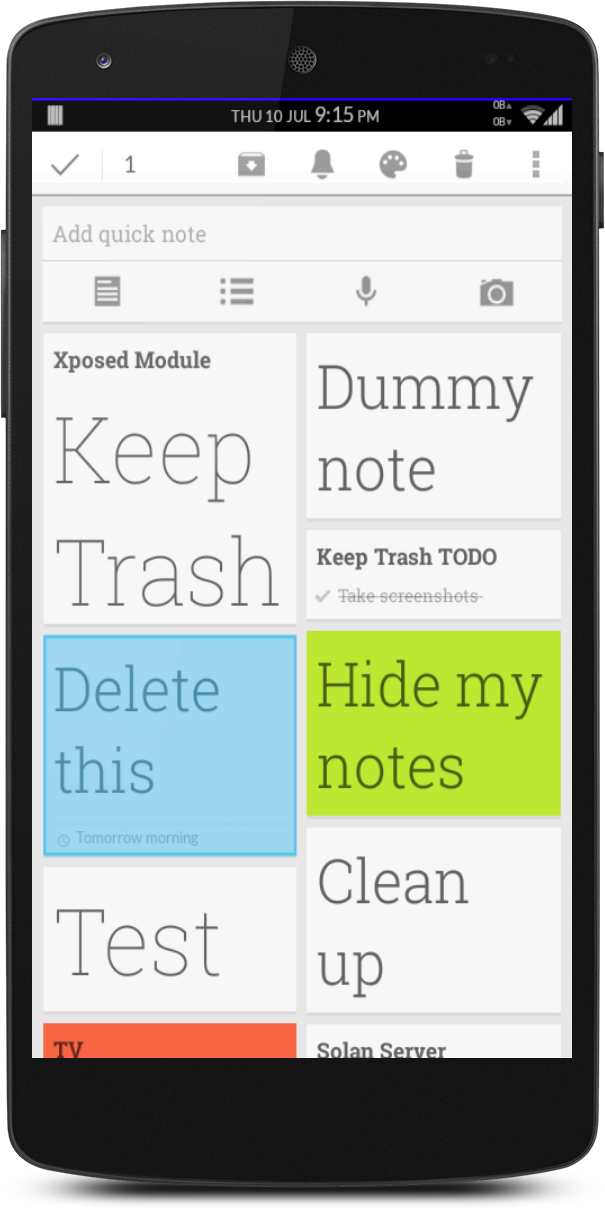
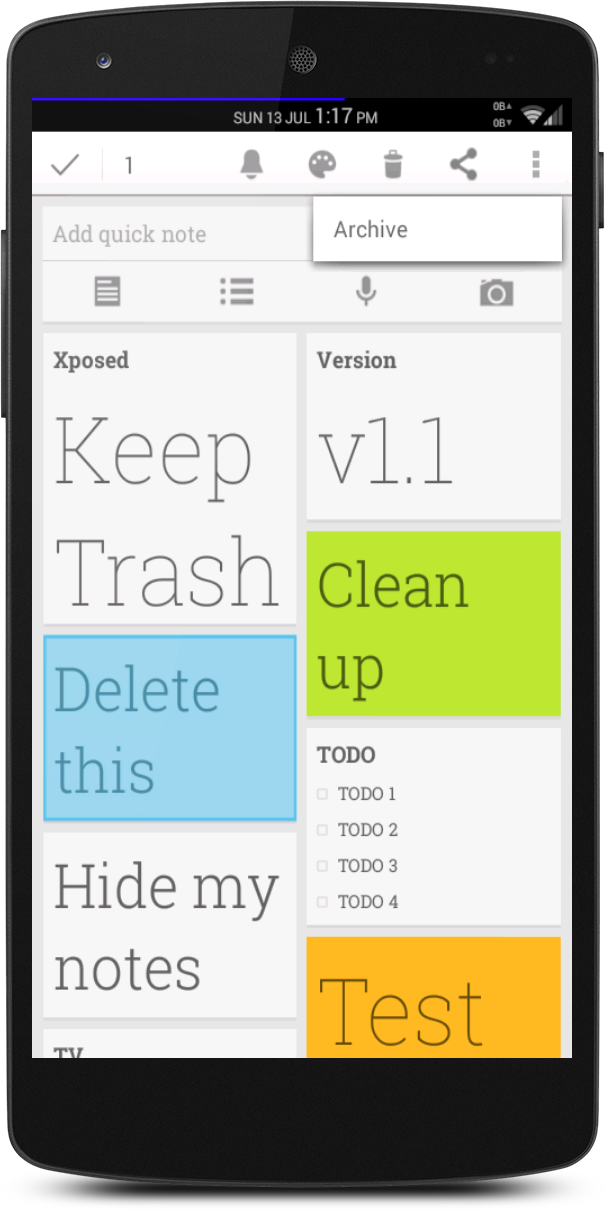
Blog update at 2014-07-13 09:38:03

diff --git a/keep-trash/index.html b/keep-trash/index.html
@@ -13,17 +13,17 @@
     <meta name="viewport" content="width=device-width, initial-scale=1">
 
     
-    <link rel="stylesheet" href="../assets/css/style.css?v=0d560886d1">
+    <link rel="stylesheet" href="../assets/css/style.css?v=85fe16f7bd">
 
     
-    <link rel="apple-touch-icon-precomposed" sizes="144x144" href="../assets/images/apple-touch-icon-144x144-precomposed.png?v=0d560886d1" />
-    <link rel="apple-touch-icon-precomposed" sizes="114x114" href="../assets/images/apple-touch-icon-114x114-precomposed.png?v=0d560886d1" />
-    <link rel="apple-touch-icon-precomposed" sizes="72x72" href="../assets/images/apple-touch-icon-72x72-precomposed.png?v=0d560886d1" />
-    <link rel="apple-touch-icon-precomposed" sizes="57x57" href="../assets/images/apple-touch-icon-57x57-precomposed.png?v=0d560886d1" />
-    <link rel="apple-touch-icon-precomposed" href="../assets/images/apple-touch-icon-precomposed.png?v=0d560886d1" />
-    <link rel="apple-touch-icon" href="../assets/images/apple-touch-icon.png?v=0d560886d1" />
-    <link rel="icon" type="image/x-icon" href="../assets/images/favicon.ico?v=0d560886d1" />
-    <link rel="shortcut icon" type="image/x-icon" href="../assets/images/favicon.ico?v=0d560886d1" />
+    <link rel="apple-touch-icon-precomposed" sizes="144x144" href="../assets/images/apple-touch-icon-144x144-precomposed.png?v=85fe16f7bd" />
+    <link rel="apple-touch-icon-precomposed" sizes="114x114" href="../assets/images/apple-touch-icon-114x114-precomposed.png?v=85fe16f7bd" />
+    <link rel="apple-touch-icon-precomposed" sizes="72x72" href="../assets/images/apple-touch-icon-72x72-precomposed.png?v=85fe16f7bd" />
+    <link rel="apple-touch-icon-precomposed" sizes="57x57" href="../assets/images/apple-touch-icon-57x57-precomposed.png?v=85fe16f7bd" />
+    <link rel="apple-touch-icon-precomposed" href="../assets/images/apple-touch-icon-precomposed.png?v=85fe16f7bd" />
+    <link rel="apple-touch-icon" href="../assets/images/apple-touch-icon.png?v=85fe16f7bd" />
+    <link rel="icon" type="image/x-icon" href="../assets/images/favicon.ico?v=85fe16f7bd" />
+    <link rel="shortcut icon" type="image/x-icon" href="../assets/images/favicon.ico?v=85fe16f7bd" />
 
     
     <meta name="generator" content="Ghost 0.4" />
@@ -128,7 +128,19 @@
 <li>Tap on 'Delete'</li>
 </ol>
 
+<p>In v1.1, I implemented a customizable icon listing in the action bar of the official Google Keep app. The users can select which icons they want to show in their Google Keep app action bar. Users can choose any combination, such as select only one among the menu icons listed below, choose any two, choose all three or choose none. Users can choose among the following icons -</p>
+
+<ul>
+<li>Archive</li>
+<li>Delete</li>
+<li>Share</li>
+</ul>
+
 <h3 id="screenshots">Screenshots</h3>
+
+<h4 id="keeptrash">Keep Trash</h4>
+
+<p><img src="../content/images/2014/Jul/Screenshot_2014-07-13-13-12-35_HAenexus520140713_140345.png" alt="" /></p>
 
 <h4 id="before">Before</h4>
 
@@ -168,11 +180,25 @@ Check the '<strong><a href="http://repo.xposed.info/module/com.shubhangrathore.x
 
 <h3 id="changelog">Changelog</h3>
 
+<h4 id="v11">v1.1</h4>
+
+<p><strong>NOTE</strong> - If you have previously disabled the GUI in v1.0, uninstall and reinstall Keep Trash to enable the <strong>new GUI</strong> to see the customization options.</p>
+
+<ul>
+<li>Ability to choose which icons you want to show up in official Google Keep's action bar (any combination from Archive, Delete and Share can be set. Any one among these, any two, all or none)</li>
+<li>Switch from Holo theme to Holo light with dark action bar</li>
+<li>Remove 'Disable GUI' checkbox</li>
+<li>Enable 'Open Google Keep in Play Store' permanently</li>
+<li>Code clean up</li>
+</ul>
+
 <h4 id="v10">v1.0</h4>
 
 <ul>
 <li>Initial release</li>
 </ul>
+
+<p><img src="../content/images/2014/Jul/Screenshot_2014-07-13-13-30-23_Bdmnexus520140713_140413.png" alt="" /></p>
 
 <h3 id="license">License</h3>
 
@@ -196,12 +222,12 @@ Check the '<strong><a href="http://repo.xposed.info/module/com.shubhangrathore.x
 </div>
 
 
-<script src="../public/jquery.js?v=0d560886d1"></script>
+<script src="../public/jquery.js?v=85fe16f7bd"></script>
 
 <script src="http://ajax.googleapis.com/ajax/libs/jquery/1.10.2/jquery.min.js"></script>
 <script>window.jQuery || document.write('<script src="http://localhost:2368/keep-trash/assets/js/vendor/jquery-1.10.2.min.js"><\/script>')</script>
-<script src="../assets/js/plugins/jquery.fitvids.js?v=0d560886d1"></script>
-<script src="../assets/js/script.js?v=0d560886d1"></script>
+<script src="../assets/js/plugins/jquery.fitvids.js?v=85fe16f7bd"></script>
+<script src="../assets/js/script.js?v=85fe16f7bd"></script>
 
     <script async type="text/javascript" src="http://apis.google.com/js/plusone.js?callback=gpcb"></script>
 

diff --git a/rss/index.html b/rss/index.html
@@ -1,5 +1,5 @@
 <?xml version="1.0" encoding="UTF-8"?>
-<rss xmlns:dc="http://purl.org/dc/elements/1.1/" xmlns:content="http://purl.org/rss/1.0/modules/content/" xmlns:atom="http://www.w3.org/2005/Atom" version="2.0"><channel><title><![CDATA[Shubhang Rathore]]></title><description><![CDATA[Blog]]></description><link>http://blog.shubhangrathore.com/</link><generator>Ghost v0.4.2</generator><lastBuildDate>Fri, 11 Jul 2014 12:45:52 GMT</lastBuildDate><atom:link href="http://blog.shubhangrathore.com/rss/" rel="self" type="application/rss+xml"/><ttl>60</ttl><item><title><![CDATA[Keep Trash]]></title><description><![CDATA[<p>An open source Xposed module for android to move the 'Delete' button from overflow menu to action bar in official <strong><a href='https://play.google.com/store/apps/details?id=com.google.android.keep' >Google Keep</a></strong> app.</p>
+<rss xmlns:dc="http://purl.org/dc/elements/1.1/" xmlns:content="http://purl.org/rss/1.0/modules/content/" xmlns:atom="http://www.w3.org/2005/Atom" version="2.0"><channel><title><![CDATA[Shubhang Rathore]]></title><description><![CDATA[Blog]]></description><link>http://blog.shubhangrathore.com/</link><generator>Ghost v0.4.2</generator><lastBuildDate>Sun, 13 Jul 2014 09:37:55 GMT</lastBuildDate><atom:link href="http://blog.shubhangrathore.com/rss/" rel="self" type="application/rss+xml"/><ttl>60</ttl><item><title><![CDATA[Keep Trash]]></title><description><![CDATA[<p>An open source Xposed module for android to move the 'Delete' button from overflow menu to action bar in official <strong><a href='https://play.google.com/store/apps/details?id=com.google.android.keep' >Google Keep</a></strong> app.</p>
 
 <p>I use Google Keep <strong>a lot</strong> to jot down thoughts that come to my mind, thoughts that may come in handy in future. This leads to many many notes scattered all over the app.</p>
 
@@ -20,7 +20,19 @@
 <li>Tap on 'Delete'</li>
 </ol>
 
+<p>In v1.1, I implemented a customizable icon listing in the action bar of the official Google Keep app. The users can select which icons they want to show in their Google Keep app action bar. Users can choose any combination, such as select only one among the menu icons listed below, choose any two, choose all three or choose none. Users can choose among the following icons -</p>
+
+<ul>
+<li>Archive</li>
+<li>Delete</li>
+<li>Share</li>
+</ul>
+
 <h3 id="screenshots">Screenshots</h3>
+
+<h4 id="keeptrash">Keep Trash</h4>
+
+<p><img src='http://blog.shubhangrathore.com/content/images/2014/Jul/Screenshot_2014-07-13-13-12-35_HAenexus520140713_140345.png'  alt="" /></p>
 
 <h4 id="before">Before</h4>
 
@@ -60,11 +72,25 @@ Check the '<strong><a href='http://repo.xposed.info/module/com.shubhangrathore.x
 
 <h3 id="changelog">Changelog</h3>
 
+<h4 id="v11">v1.1</h4>
+
+<p><strong>NOTE</strong> - If you have previously disabled the GUI in v1.0, uninstall and reinstall Keep Trash to enable the <strong>new GUI</strong> to see the customization options.</p>
+
+<ul>
+<li>Ability to choose which icons you want to show up in official Google Keep's action bar (any combination from Archive, Delete and Share can be set. Any one among these, any two, all or none)</li>
+<li>Switch from Holo theme to Holo light with dark action bar</li>
+<li>Remove 'Disable GUI' checkbox</li>
+<li>Enable 'Open Google Keep in Play Store' permanently</li>
+<li>Code clean up</li>
+</ul>
+
 <h4 id="v10">v1.0</h4>
 
 <ul>
 <li>Initial release</li>
 </ul>
+
+<p><img src='http://blog.shubhangrathore.com/content/images/2014/Jul/Screenshot_2014-07-13-13-30-23_Bdmnexus520140713_140413.png'  alt="" /></p>
 
 <h3 id="license">License</h3>
 

diff --git a/shutdown-manager/index.html b/shutdown-manager/index.html
@@ -13,17 +13,17 @@
     <meta name="viewport" content="width=device-width, initial-scale=1">
 
     
-    <link rel="stylesheet" href="../assets/css/style.css?v=0d560886d1">
+    <link rel="stylesheet" href="../assets/css/style.css?v=85fe16f7bd">
 
     
-    <link rel="apple-touch-icon-precomposed" sizes="144x144" href="../assets/images/apple-touch-icon-144x144-precomposed.png?v=0d560886d1" />
-    <link rel="apple-touch-icon-precomposed" sizes="114x114" href="../assets/images/apple-touch-icon-114x114-precomposed.png?v=0d560886d1" />
-    <link rel="apple-touch-icon-precomposed" sizes="72x72" href="../assets/images/apple-touch-icon-72x72-precomposed.png?v=0d560886d1" />
-    <link rel="apple-touch-icon-precomposed" sizes="57x57" href="../assets/images/apple-touch-icon-57x57-precomposed.png?v=0d560886d1" />
-    <link rel="apple-touch-icon-precomposed" href="../assets/images/apple-touch-icon-precomposed.png?v=0d560886d1" />
-    <link rel="apple-touch-icon" href="../assets/images/apple-touch-icon.png?v=0d560886d1" />
-    <link rel="icon" type="image/x-icon" href="../assets/images/favicon.ico?v=0d560886d1" />
-    <link rel="shortcut icon" type="image/x-icon" href="../assets/images/favicon.ico?v=0d560886d1" />
+    <link rel="apple-touch-icon-precomposed" sizes="144x144" href="../assets/images/apple-touch-icon-144x144-precomposed.png?v=85fe16f7bd" />
+    <link rel="apple-touch-icon-precomposed" sizes="114x114" href="../assets/images/apple-touch-icon-114x114-precomposed.png?v=85fe16f7bd" />
+    <link rel="apple-touch-icon-precomposed" sizes="72x72" href="../assets/images/apple-touch-icon-72x72-precomposed.png?v=85fe16f7bd" />
+    <link rel="apple-touch-icon-precomposed" sizes="57x57" href="../assets/images/apple-touch-icon-57x57-precomposed.png?v=85fe16f7bd" />
+    <link rel="apple-touch-icon-precomposed" href="../assets/images/apple-touch-icon-precomposed.png?v=85fe16f7bd" />
+    <link rel="apple-touch-icon" href="../assets/images/apple-touch-icon.png?v=85fe16f7bd" />
+    <link rel="icon" type="image/x-icon" href="../assets/images/favicon.ico?v=85fe16f7bd" />
+    <link rel="shortcut icon" type="image/x-icon" href="../assets/images/favicon.ico?v=85fe16f7bd" />
 
     
     <meta name="generator" content="Ghost 0.4" />
@@ -188,12 +188,12 @@ Very low on memory resources.</li>
 </div>
 
 
-<script src="../public/jquery.js?v=0d560886d1"></script>
+<script src="../public/jquery.js?v=85fe16f7bd"></script>
 
 <script src="http://ajax.googleapis.com/ajax/libs/jquery/1.10.2/jquery.min.js"></script>
 <script>window.jQuery || document.write('<script src="http://localhost:2368/shutdown-manager/assets/js/vendor/jquery-1.10.2.min.js"><\/script>')</script>
-<script src="../assets/js/plugins/jquery.fitvids.js?v=0d560886d1"></script>
-<script src="../assets/js/script.js?v=0d560886d1"></script>
+<script src="../assets/js/plugins/jquery.fitvids.js?v=85fe16f7bd"></script>
+<script src="../assets/js/script.js?v=85fe16f7bd"></script>
 
     <script async type="text/javascript" src="http://apis.google.com/js/plusone.js?callback=gpcb"></script>
 

diff --git a/efs-backup/index.html b/efs-backup/index.html
@@ -13,17 +13,17 @@
     <meta name="viewport" content="width=device-width, initial-scale=1">
 
     
-    <link rel="stylesheet" href="../assets/css/style.css?v=0d560886d1">
+    <link rel="stylesheet" href="../assets/css/style.css?v=85fe16f7bd">
 
     
-    <link rel="apple-touch-icon-precomposed" sizes="144x144" href="../assets/images/apple-touch-icon-144x144-precomposed.png?v=0d560886d1" />
-    <link rel="apple-touch-icon-precomposed" sizes="114x114" href="../assets/images/apple-touch-icon-114x114-precomposed.png?v=0d560886d1" />
-    <link rel="apple-touch-icon-precomposed" sizes="72x72" href="../assets/images/apple-touch-icon-72x72-precomposed.png?v=0d560886d1" />
-    <link rel="apple-touch-icon-precomposed" sizes="57x57" href="../assets/images/apple-touch-icon-57x57-precomposed.png?v=0d560886d1" />
-    <link rel="apple-touch-icon-precomposed" href="../assets/images/apple-touch-icon-precomposed.png?v=0d560886d1" />
-    <link rel="apple-touch-icon" href="../assets/images/apple-touch-icon.png?v=0d560886d1" />
-    <link rel="icon" type="image/x-icon" href="../assets/images/favicon.ico?v=0d560886d1" />
-    <link rel="shortcut icon" type="image/x-icon" href="../assets/images/favicon.ico?v=0d560886d1" />
+    <link rel="apple-touch-icon-precomposed" sizes="144x144" href="../assets/images/apple-touch-icon-144x144-precomposed.png?v=85fe16f7bd" />
+    <link rel="apple-touch-icon-precomposed" sizes="114x114" href="../assets/images/apple-touch-icon-114x114-precomposed.png?v=85fe16f7bd" />
+    <link rel="apple-touch-icon-precomposed" sizes="72x72" href="../assets/images/apple-touch-icon-72x72-precomposed.png?v=85fe16f7bd" />
+    <link rel="apple-touch-icon-precomposed" sizes="57x57" href="../assets/images/apple-touch-icon-57x57-precomposed.png?v=85fe16f7bd" />
+    <link rel="apple-touch-icon-precomposed" href="../assets/images/apple-touch-icon-precomposed.png?v=85fe16f7bd" />
+    <link rel="apple-touch-icon" href="../assets/images/apple-touch-icon.png?v=85fe16f7bd" />
+    <link rel="icon" type="image/x-icon" href="../assets/images/favicon.ico?v=85fe16f7bd" />
+    <link rel="shortcut icon" type="image/x-icon" href="../assets/images/favicon.ico?v=85fe16f7bd" />
 
     
     <meta name="generator" content="Ghost 0.4" />
@@ -180,12 +180,12 @@
 </div>
 
 
-<script src="../public/jquery.js?v=0d560886d1"></script>
+<script src="../public/jquery.js?v=85fe16f7bd"></script>
 
 <script src="http://ajax.googleapis.com/ajax/libs/jquery/1.10.2/jquery.min.js"></script>
 <script>window.jQuery || document.write('<script src="http://localhost:2368/efs-backup/assets/js/vendor/jquery-1.10.2.min.js"><\/script>')</script>
-<script src="../assets/js/plugins/jquery.fitvids.js?v=0d560886d1"></script>
-<script src="../assets/js/script.js?v=0d560886d1"></script>
+<script src="../assets/js/plugins/jquery.fitvids.js?v=85fe16f7bd"></script>
+<script src="../assets/js/script.js?v=85fe16f7bd"></script>
 
     <script async type="text/javascript" src="http://apis.google.com/js/plusone.js?callback=gpcb"></script>
 

diff --git a/expunger/index.html b/expunger/index.html
@@ -13,17 +13,17 @@
     <meta name="viewport" content="width=device-width, initial-scale=1">
 
     
-    <link rel="stylesheet" href="../assets/css/style.css?v=0d560886d1">
+    <link rel="stylesheet" href="../assets/css/style.css?v=85fe16f7bd">
 
     
-    <link rel="apple-touch-icon-precomposed" sizes="144x144" href="../assets/images/apple-touch-icon-144x144-precomposed.png?v=0d560886d1" />
-    <link rel="apple-touch-icon-precomposed" sizes="114x114" href="../assets/images/apple-touch-icon-114x114-precomposed.png?v=0d560886d1" />
-    <link rel="apple-touch-icon-precomposed" sizes="72x72" href="../assets/images/apple-touch-icon-72x72-precomposed.png?v=0d560886d1" />
-    <link rel="apple-touch-icon-precomposed" sizes="57x57" href="../assets/images/apple-touch-icon-57x57-precomposed.png?v=0d560886d1" />
-    <link rel="apple-touch-icon-precomposed" href="../assets/images/apple-touch-icon-precomposed.png?v=0d560886d1" />
-    <link rel="apple-touch-icon" href="../assets/images/apple-touch-icon.png?v=0d560886d1" />
-    <link rel="icon" type="image/x-icon" href="../assets/images/favicon.ico?v=0d560886d1" />
-    <link rel="shortcut icon" type="image/x-icon" href="../assets/images/favicon.ico?v=0d560886d1" />
+    <link rel="apple-touch-icon-precomposed" sizes="144x144" href="../assets/images/apple-touch-icon-144x144-precomposed.png?v=85fe16f7bd" />
+    <link rel="apple-touch-icon-precomposed" sizes="114x114" href="../assets/images/apple-touch-icon-114x114-precomposed.png?v=85fe16f7bd" />
+    <link rel="apple-touch-icon-precomposed" sizes="72x72" href="../assets/images/apple-touch-icon-72x72-precomposed.png?v=85fe16f7bd" />
+    <link rel="apple-touch-icon-precomposed" sizes="57x57" href="../assets/images/apple-touch-icon-57x57-precomposed.png?v=85fe16f7bd" />
+    <link rel="apple-touch-icon-precomposed" href="../assets/images/apple-touch-icon-precomposed.png?v=85fe16f7bd" />
+    <link rel="apple-touch-icon" href="../assets/images/apple-touch-icon.png?v=85fe16f7bd" />
+    <link rel="icon" type="image/x-icon" href="../assets/images/favicon.ico?v=85fe16f7bd" />
+    <link rel="shortcut icon" type="image/x-icon" href="../assets/images/favicon.ico?v=85fe16f7bd" />
 
     
     <meta name="generator" content="Ghost 0.4" />
@@ -194,12 +194,12 @@
 </div>
 
 
-<script src="../public/jquery.js?v=0d560886d1"></script>
+<script src="../public/jquery.js?v=85fe16f7bd"></script>
 
 <script src="http://ajax.googleapis.com/ajax/libs/jquery/1.10.2/jquery.min.js"></script>
 <script>window.jQuery || document.write('<script src="http://localhost:2368/expunger/assets/js/vendor/jquery-1.10.2.min.js"><\/script>')</script>
-<script src="../assets/js/plugins/jquery.fitvids.js?v=0d560886d1"></script>
-<script src="../assets/js/script.js?v=0d560886d1"></script>
+<script src="../assets/js/plugins/jquery.fitvids.js?v=85fe16f7bd"></script>
+<script src="../assets/js/script.js?v=85fe16f7bd"></script>
 
     <script async type="text/javascript" src="http://apis.google.com/js/plusone.js?callback=gpcb"></script>
 

diff --git a/crasher/index.html b/crasher/index.html
@@ -13,17 +13,17 @@
     <meta name="viewport" content="width=device-width, initial-scale=1">
 
     
-    <link rel="stylesheet" href="../assets/css/style.css?v=0d560886d1">
+    <link rel="stylesheet" href="../assets/css/style.css?v=85fe16f7bd">
 
     
-    <link rel="apple-touch-icon-precomposed" sizes="144x144" href="../assets/images/apple-touch-icon-144x144-precomposed.png?v=0d560886d1" />
-    <link rel="apple-touch-icon-precomposed" sizes="114x114" href="../assets/images/apple-touch-icon-114x114-precomposed.png?v=0d560886d1" />
-    <link rel="apple-touch-icon-precomposed" sizes="72x72" href="../assets/images/apple-touch-icon-72x72-precomposed.png?v=0d560886d1" />
-    <link rel="apple-touch-icon-precomposed" sizes="57x57" href="../assets/images/apple-touch-icon-57x57-precomposed.png?v=0d560886d1" />
-    <link rel="apple-touch-icon-precomposed" href="../assets/images/apple-touch-icon-precomposed.png?v=0d560886d1" />
-    <link rel="apple-touch-icon" href="../assets/images/apple-touch-icon.png?v=0d560886d1" />
-    <link rel="icon" type="image/x-icon" href="../assets/images/favicon.ico?v=0d560886d1" />
-    <link rel="shortcut icon" type="image/x-icon" href="../assets/images/favicon.ico?v=0d560886d1" />
+    <link rel="apple-touch-icon-precomposed" sizes="144x144" href="../assets/images/apple-touch-icon-144x144-precomposed.png?v=85fe16f7bd" />
+    <link rel="apple-touch-icon-precomposed" sizes="114x114" href="../assets/images/apple-touch-icon-114x114-precomposed.png?v=85fe16f7bd" />
+    <link rel="apple-touch-icon-precomposed" sizes="72x72" href="../assets/images/apple-touch-icon-72x72-precomposed.png?v=85fe16f7bd" />
+    <link rel="apple-touch-icon-precomposed" sizes="57x57" href="../assets/images/apple-touch-icon-57x57-precomposed.png?v=85fe16f7bd" />
+    <link rel="apple-touch-icon-precomposed" href="../assets/images/apple-touch-icon-precomposed.png?v=85fe16f7bd" />
+    <link rel="apple-touch-icon" href="../assets/images/apple-touch-icon.png?v=85fe16f7bd" />
+    <link rel="icon" type="image/x-icon" href="../assets/images/favicon.ico?v=85fe16f7bd" />
+    <link rel="shortcut icon" type="image/x-icon" href="../assets/images/favicon.ico?v=85fe16f7bd" />
 
     
     <meta name="generator" content="Ghost 0.4" />
@@ -184,12 +184,12 @@
 </div>
 
 
-<script src="../public/jquery.js?v=0d560886d1"></script>
+<script src="../public/jquery.js?v=85fe16f7bd"></script>
 
 <script src="http://ajax.googleapis.com/ajax/libs/jquery/1.10.2/jquery.min.js"></script>
 <script>window.jQuery || document.write('<script src="http://localhost:2368/crasher/assets/js/vendor/jquery-1.10.2.min.js"><\/script>')</script>
-<script src="../assets/js/plugins/jquery.fitvids.js?v=0d560886d1"></script>
-<script src="../assets/js/script.js?v=0d560886d1"></script>
+<script src="../assets/js/plugins/jquery.fitvids.js?v=85fe16f7bd"></script>
+<script src="../assets/js/script.js?v=85fe16f7bd"></script>
 
     <script async type="text/javascript" src="http://apis.google.com/js/plusone.js?callback=gpcb"></script>
 

diff --git a/index.html b/index.html
@@ -13,17 +13,17 @@
     <meta name="viewport" content="width=device-width, initial-scale=1">
 
     
-    <link rel="stylesheet" href="assets/css/style.css?v=0d560886d1">
+    <link rel="stylesheet" href="assets/css/style.css?v=85fe16f7bd">
 
     
-    <link rel="apple-touch-icon-precomposed" sizes="144x144" href="assets/images/apple-touch-icon-144x144-precomposed.png?v=0d560886d1" />
-    <link rel="apple-touch-icon-precomposed" sizes="114x114" href="assets/images/apple-touch-icon-114x114-precomposed.png?v=0d560886d1" />
-    <link rel="apple-touch-icon-precomposed" sizes="72x72" href="assets/images/apple-touch-icon-72x72-precomposed.png?v=0d560886d1" />
-    <link rel="apple-touch-icon-precomposed" sizes="57x57" href="assets/images/apple-touch-icon-57x57-precomposed.png?v=0d560886d1" />
-    <link rel="apple-touch-icon-precomposed" href="assets/images/apple-touch-icon-precomposed.png?v=0d560886d1" />
-    <link rel="apple-touch-icon" href="assets/images/apple-touch-icon.png?v=0d560886d1" />
-    <link rel="icon" type="image/x-icon" href="assets/images/favicon.ico?v=0d560886d1" />
-    <link rel="shortcut icon" type="image/x-icon" href="assets/images/favicon.ico?v=0d560886d1" />
+    <link rel="apple-touch-icon-precomposed" sizes="144x144" href="assets/images/apple-touch-icon-144x144-precomposed.png?v=85fe16f7bd" />
+    <link rel="apple-touch-icon-precomposed" sizes="114x114" href="assets/images/apple-touch-icon-114x114-precomposed.png?v=85fe16f7bd" />
+    <link rel="apple-touch-icon-precomposed" sizes="72x72" href="assets/images/apple-touch-icon-72x72-precomposed.png?v=85fe16f7bd" />
+    <link rel="apple-touch-icon-precomposed" sizes="57x57" href="assets/images/apple-touch-icon-57x57-precomposed.png?v=85fe16f7bd" />
+    <link rel="apple-touch-icon-precomposed" href="assets/images/apple-touch-icon-precomposed.png?v=85fe16f7bd" />
+    <link rel="apple-touch-icon" href="assets/images/apple-touch-icon.png?v=85fe16f7bd" />
+    <link rel="icon" type="image/x-icon" href="assets/images/favicon.ico?v=85fe16f7bd" />
+    <link rel="shortcut icon" type="image/x-icon" href="assets/images/favicon.ico?v=85fe16f7bd" />
 
     
     <meta name="generator" content="Ghost 0.4" />
@@ -203,12 +203,12 @@
 </div>
 
 
-<script src="public/jquery.js?v=0d560886d1"></script>
+<script src="public/jquery.js?v=85fe16f7bd"></script>
 
 <script src="http://ajax.googleapis.com/ajax/libs/jquery/1.10.2/jquery.min.js"></script>
 <script>window.jQuery || document.write('<script src="assets/js/vendor/jquery-1.10.2.min.js"><\/script>')</script>
-<script src="assets/js/plugins/jquery.fitvids.js?v=0d560886d1"></script>
-<script src="assets/js/script.js?v=0d560886d1"></script>
+<script src="assets/js/plugins/jquery.fitvids.js?v=85fe16f7bd"></script>
+<script src="assets/js/script.js?v=85fe16f7bd"></script>
 
 </body>
 </html>
